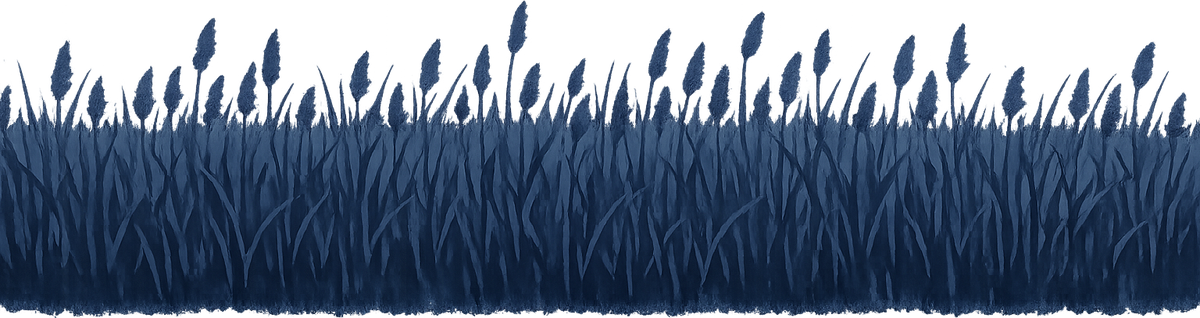
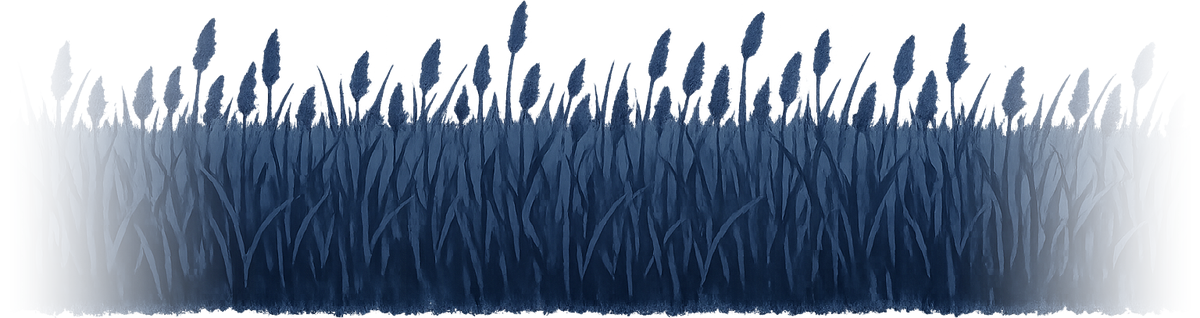
art review: split dawn clouds, softer sun without blowout, fog lifts at dawn, aurora without hill band, faded birch tops and reed edges, seamless island water, night ending stays night, readable patient and end screens, muted start art

Changed region(s): [[0.8017, 0.1415, 1.0, 0.9906], [0.0, 0.0849, 0.185, 1.0]]

diff --git a/demo/js/world.js b/demo/js/world.js
@@ -226,6 +226,7 @@
   }
   function ring(a) { st.rings.push({ t: n0(S.t, 0), a }); }
 
+  const CLOUDS = [['sky_dawn_cloud_1', 0.07, 1.5, 1, 0.3, 0.72], ['sky_dawn_cloud_2', 0.24, 1.0, 0.7, 0.75, 0.55], ['sky_dawn_cloud_3', 0.42, 0.7, 0.5, 0.45, 0.4]];
   let skyTop, skyMid, skyBot;
   function sky(ctx) {
     const d = st.ds, dl = n0(S.daylight, 0), dawn = d.dawn;
@@ -234,7 +235,7 @@
     top = mixc(top, P.greenTop, d.green * 0.35); mid = mixc(mid, P.greenBot, d.green * 0.3);
     mid = mixc(mid, P.violet600, d.yellow * 0.25); bot = mixc(bot, mixc(P.violet500, P.amber2, 0.3), d.yellow * 0.25);
     top = mixc(top, P.blueBot, dl * 0.5); mid = mixc(mid, P.dawnSky, dl * 0.45); bot = mixc(bot, P.daylight, dl * 0.4);
-    top = mixc(top, mixc(P.blueBot, P.dawnSky, 0.55), dawn); mid = mixc(mid, mixc(P.dawnSky, P.peach, 0.35), dawn); bot = mixc(bot, mixc(P.peach, P.gold, 0.5), dawn);
+    top = mixc(top, mixc(P.blueBot, P.dawnSky, 0.75), dawn); mid = mixc(mid, mixc(P.dawnSky, P.peach, 0.35), dawn); bot = mixc(bot, mixc(P.peach, P.gold, 0.5), dawn);
     const s = 0.18 + 0.82 * Math.max((d.blue + d.green + d.yellow) / 3, dawn, dl * 0.6);
     const des = c => { const l = 0.3 * c[0] + 0.59 * c[1] + 0.11 * c[2]; return [lerp(l * COOL[0], c[0], s), lerp(l * COOL[1], c[1], s), lerp(l * COOL[2], c[2], s)]; };
     skyTop = des(top); skyMid = des(mid); skyBot = des(bot);
@@ -242,17 +243,18 @@
     const a = rgb(skyTop.map(Math.round)), b = rgb(skyMid.map(Math.round)), c = rgb(skyBot.map(Math.round));
     ctx.fillStyle = vgrad(ctx, 'sky' + a + b + c + H, 0, hy + 4, [[0, a], [0.55, b], [1, c]]);
     ctx.fillRect(0, 0, W, hy + 6);
-    if (dawn > 0.02 && ART.has('sky_dawn_clouds')) {
-      const w = W * 1.05, span = w * 0.9, o = off(LAYER.aurora) + n0(S.t, 0) * 2 * u, i0 = Math.floor(o / span);
-      for (let i = i0; i * span - o < W; i++) {
-        const k = i % 2 ? 0.7 : 1, ww = w * k, x = i * span - o + (i % 2 ? w * 0.15 : 0);
-        art('sky_dawn_clouds', x, hy * (i % 2 ? 0.2 : 0.06), ww, ww / ART.aspect('sky_dawn_clouds'), 'dawn', dawn * (i % 2 ? 0.45 : 0.62), 1);
+    if (dawn > 0.02) {
+      const o = off(LAYER.aurora) + n0(S.t, 0) * 2 * u;
+      for (const [n, yk, wk, sp, ph, al] of CLOUDS) {
+        if (!ART.has(n)) continue;
+        const w = W * wk, span = W + w * 1.6, x = ((ph * span - o * sp) % span + span) % span - w * 0.8;
+        art(n, x, hy * yk, w, w / ART.aspect(n), 'dawn', dawn * al, 1);
       }
     }
     if (dawn > 0.01 || st.sun > 0.01) {
       const p = Math.max(dawn, st.sun);
-      glow(ctx, W * 0.72, hy, W * 0.9, P.coralSoft, 0.2 * p, 'soft');
-      glow(ctx, W * 0.72, hy, W * 0.5, P.gold, 0.16 * p, 'soft');
+      sprite(ctx, 'soft', P.coralSoft, W * 0.72 - W * 1.1, hy - W * 0.7, W * 2.2, W * 1.4, 0.5 * p, false);
+      sprite(ctx, 'soft', P.gold, W * 0.72 - W * 0.55, hy - W * 0.4, W * 1.1, W * 0.8, 0.35 * p, false);
     }
   }
 
@@ -334,15 +336,14 @@
     const p = st.sun;
     if (p <= 0.005) return;
     const x = W * 0.72, y = lerp(hy + H * 0.03, hy - H * 0.12, ease(p)), t = n0(S.t, 0);
-    glow(ctx, x, y, H * 0.42, P.coralSoft, 0.22 * p, 'soft');
-    glow(ctx, x, y, H * 0.2, P.gold, 0.2 * p, 'soft');
-    glow(ctx, x, y, H * 0.05, P.sun, 0.3 * p, 'glow');
-    sprite(ctx, 'dot', P.sun, x - H * 0.022, y - H * 0.022, H * 0.044, H * 0.044, 0.85 * p, false);
+    sprite(ctx, 'soft', P.gold, x - H * 0.2, y - H * 0.2, H * 0.4, H * 0.4, 0.4 * p, false);
+    glow(ctx, x, y, H * 0.07, P.sun, 0.22 * p, 'soft');
+    sprite(ctx, 'dot', P.sun, x - H * 0.024, y - H * 0.024, H * 0.048, H * 0.048, p, false);
     if (!rm) {
       ctx.save(); ctx.translate(x, y); ctx.globalCompositeOperation = 'lighter';
       for (let i = 0; i < 7; i++) {
         ctx.save(); ctx.rotate(Math.PI * (0.55 + i * 0.13) + Math.sin(t * 0.1 + i) * 0.03);
-        ctx.globalAlpha = 0.07 * p * (0.6 + 0.4 * Math.sin(t * 0.3 + i * 1.7));
+        ctx.globalAlpha = 0.045 * p * (0.6 + 0.4 * Math.sin(t * 0.3 + i * 1.7));
         ctx.drawImage(tint('beam', P.sun), 0, -H * 0.05, H * 0.9, H * 0.1);
         ctx.restore();
       }
@@ -418,7 +419,7 @@
   }
 
   function sea(ctx) {
-    const top = col(mixc(HAZE, P.sea, 0.5), 'blue', 1, 0.15), bot = col(P.seaDeep, 'blue');
+    const top = col(mixc(mixc(HAZE, P.sea, 0.5), P.dawnSky, 0.5 * st.ds.dawn), 'blue', 1, 0.15), bot = col(mixc(P.seaDeep, P.sea, 0.5 * st.ds.dawn), 'blue');
     ctx.fillStyle = vgrad(ctx, 'sea' + top + bot + H, hy, gy, [[0, top], [1, bot]]);
     ctx.fillRect(0, hy, W, gy - hy + 2);
     const t = n0(S.t, 0), o = off(LAYER.islands), c = grade(P.silver200, 'blue');
@@ -460,7 +461,7 @@
   }
 
   function fog(ctx, near) {
-    const d = clamp(n0(S.fog, 0.4), 0, 1.4);
+    const d = clamp(n0(S.fog, 0.4), 0, 1.4) * (1 - 0.6 * st.ds.dawn);
     if (d <= 0.01) return;
     const t = n0(S.t, 0), drift = n0(S.fogDrift, 1) * (rm ? 0.4 : 1), f = near ? LAYER.fogNear : LAYER.fogFar;
     const c = grade(mixc(P.silver300, P.glow, 0.15 * st.ds.yellow), 'blue');
@@ -933,7 +934,7 @@
       const p = clamp((t - r.t) / 2.6, 0, 1), e = ease(p);
       if (rm) { glow(ctx, st.lx, st.ly, H * 0.4, P.glow, 0.25 * r.a * Math.sin(p * Math.PI), 'soft'); continue; }
       const rr = 10 * u + e * H * 0.55;
-      for (const [lw, al] of [[18, 0.05], [8, 0.08], [2.5, 0.18]]) { ctx.strokeStyle = rgb(P.glow, al * r.a * (1 - p)); ctx.lineWidth = lw * u * (1 - 0.5 * p); ctx.beginPath(); ctx.arc(st.lx, st.ly, rr, 0, 6.283); ctx.stroke(); }
+      for (const [lw, al] of [[18, 0.05], [8, 0.08], [2.5, 0.18]]) { ctx.strokeStyle = rgb(P.glow, al * r.a * (1 - p) * (1 - p)); ctx.lineWidth = lw * u * (1 - 0.5 * p); ctx.beginPath(); ctx.arc(st.lx, st.ly, rr, 0, 6.283); ctx.stroke(); }
       glow(ctx, st.lx, st.ly, H * 0.3 * (0.4 + e), P.glow, 0.22 * r.a * (1 - p), 'soft');
     }
   }

diff --git a/demo/style.css b/demo/style.css
@@ -40,11 +40,12 @@ button { font: inherit; color: inherit; cursor: pointer; }
 #game { width: 100%; height: 100%; display: block; }
 #phone::before {
   content: ""; position: absolute; inset: 0; pointer-events: none;
-  background: url(assets/bg_start.png) center / cover no-repeat;
+  background: linear-gradient(rgba(14, 16, 30, 0.25), rgba(14, 16, 30, 0) 30%, rgba(14, 16, 30, 0) 62%, rgba(14, 16, 30, 0.5)), url(assets/bg_start.png) center / cover no-repeat;
+  filter: saturate(0.6) brightness(0.82);
   opacity: 0; transition: opacity 1.8s var(--ease);
 }
 #phone:has(#start:not(.hidden))::before { opacity: 1; }
-#phone:has(#end:not(.hidden))::before { background-image: linear-gradient(rgba(16, 20, 44, 0) 62%, rgba(16, 20, 44, 0.4)), url(assets/bg_end_dawn.png); background-position: center, 78% 50%; opacity: 1; transition-duration: 3.2s; }
+#phone:has(#end:not(.hidden))::before { background-image: linear-gradient(rgba(16, 20, 44, 0) 66%, rgba(16, 20, 44, 0.42) 80%, rgba(16, 20, 44, 0.62)), url(assets/bg_end_dawn.png); background-position: center, 78% 50%; filter: none; opacity: 1; transition-duration: 3.2s; }
 #phone:has(#end.night:not(.hidden))::before { background-image: url(assets/bg_end_night.png); filter: brightness(0.6); }
 
 .overlay {

diff --git a/demo/js/engine.js b/demo/js/engine.js
@@ -439,9 +439,11 @@
           else if (g.id === 'breath' && g.mode === 'rest' && this.playLeft(now) <= 0) this.endGame(now, 'touch');
         }
         if (this.phase === 'dawn') {
-          const t = now - this.phaseAt;
-          V.sweep = clamp(t / 4, 0, 1); V.sunP = V.sweep; V.border = lerp(0.1, 0.22, V.sweep); V.daylight = ema(V.daylight, 0, dt, 1);
-          if (t >= 4) { V.sat.dawn = 1; V.sweep = 0; this.setPhase('end'); A.bus.emit('endScreen'); }
+          const t = now - this.phaseAt, k = clamp(t / 4, 0, 1);
+          if (this.night) { for (const g of ['yellow', 'blue', 'green']) V.sat[g] = Math.max(V.sat[g], k); V.aurora = Math.max(V.aurora, k); }
+          else { V.sweep = k; V.sunP = k; }
+          V.border = lerp(0.1, 0.22, k); V.daylight = ema(V.daylight, 0, dt, 1);
+          if (t >= 4) { if (!this.night) V.sat.dawn = 1; V.sweep = 0; this.setPhase('end'); A.bus.emit('endScreen'); }
         }
         if (this.phase === 'end') {
           const t = now - this.phaseAt;

diff --git a/demo/js/patient.js b/demo/js/patient.js
@@ -427,7 +427,7 @@
         const k = Math.max(W / bg.width, H * 1.08 / bg.height), w = bg.width * k, h = bg.height * k;
         ctx.drawImage(bg, (W - w) / 2, -Math.min(h - H, scroll * 0.08), w, h);
         const g = ctx.createLinearGradient(0, 0, 0, H);
-        g.addColorStop(0, `rgba(7,10,20,${0.5 - 0.25 * warmth})`); g.addColorStop(0.55, `rgba(7,10,20,${0.38 - 0.2 * warmth})`); g.addColorStop(1, 'rgba(7,10,20,0.7)');
+        g.addColorStop(0, `rgba(7,10,20,${0.66 - 0.12 * warmth})`); g.addColorStop(0.55, `rgba(7,10,20,${0.54 - 0.12 * warmth})`); g.addColorStop(1, 'rgba(7,10,20,0.72)');
         ctx.fillStyle = g; ctx.fillRect(0, 0, W, H);
         return;
       }
